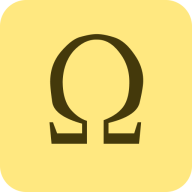
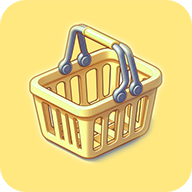
branding changes

diff --git a/app/layout.js b/app/layout.js
@@ -1,9 +1,9 @@
 import "./globals.css";
 
-const APP_NAME = "Omega";
-const APP_DEFAULT_TITLE = "Omega: Shopping List";
+const APP_NAME = "Lizt";
+const APP_DEFAULT_TITLE = "Lizt: Shopping List";
 const APP_TITLE_TEMPLATE = "%s - Shopping List App";
-const APP_DESCRIPTION = "Project Omega description here";
+const APP_DESCRIPTION = "A small shopping list PWA";
 
 export const metadata = {
   applicationName: APP_NAME,
